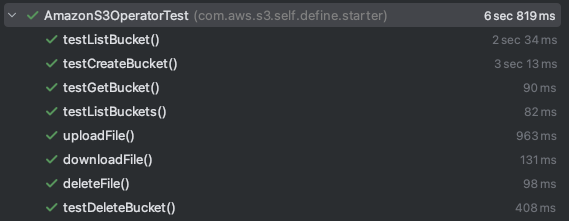
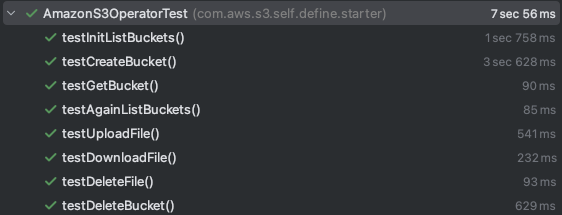
rename test method

diff --git a/aws-s3-spring-boot-autoconfigure/src/test/java/com/aws/s3/self/define/starter/AmazonS3OperatorTest.java b/aws-s3-spring-boot-autoconfigure/src/test/java/com/aws/s3/self/define/starter/AmazonS3OperatorTest.java
@@ -48,8 +48,9 @@ public class AmazonS3OperatorTest {
 
     @Order(1)
     @Test
-    void testListBucket() {
+    void testInitListBuckets() {
         var bucketList = amazonS3Operator.listBuckets();
+        Assertions.assertNotNull(bucketList);
         numberOfBuckets = bucketList.size();
     }
 
@@ -69,7 +70,7 @@ public class AmazonS3OperatorTest {
 
     @Order(4)
     @Test
-    void testListBuckets() {
+    void testAgainListBuckets() {
         var bucketList = amazonS3Operator.listBuckets();
         List<String> bucketNames = bucketList.stream().map(Bucket::name).toList();
         Assertions.assertEquals(numberOfBuckets, bucketNames.size());
@@ -78,7 +79,7 @@ public class AmazonS3OperatorTest {
 
     @Order(5)
     @Test
-    void uploadFile() {
+    void testUploadFile() {
         try {
             File testingFile = ResourceUtils.getFile(TEST_FIlE_CLASS_PATH);
             Assertions.assertDoesNotThrow(() -> amazonS3Operator.uploadFile(testingBucketName, testingFileName, testingFile));
@@ -89,14 +90,14 @@ public class AmazonS3OperatorTest {
 
     @Order(6)
     @Test
-    void downloadFile() {
+    void testDownloadFile() {
         byte[] byteArray = amazonS3Operator.downloadFile(testingBucketName, testingFileName);
         Assertions.assertNotNull(byteArray);
     }
 
     @Order(7)
     @Test
-    void deleteFile() {
+    void testDeleteFile() {
         Assertions.assertDoesNotThrow(() -> amazonS3Operator.deleteFile(testingBucketName, testingFileName));
     }
 
